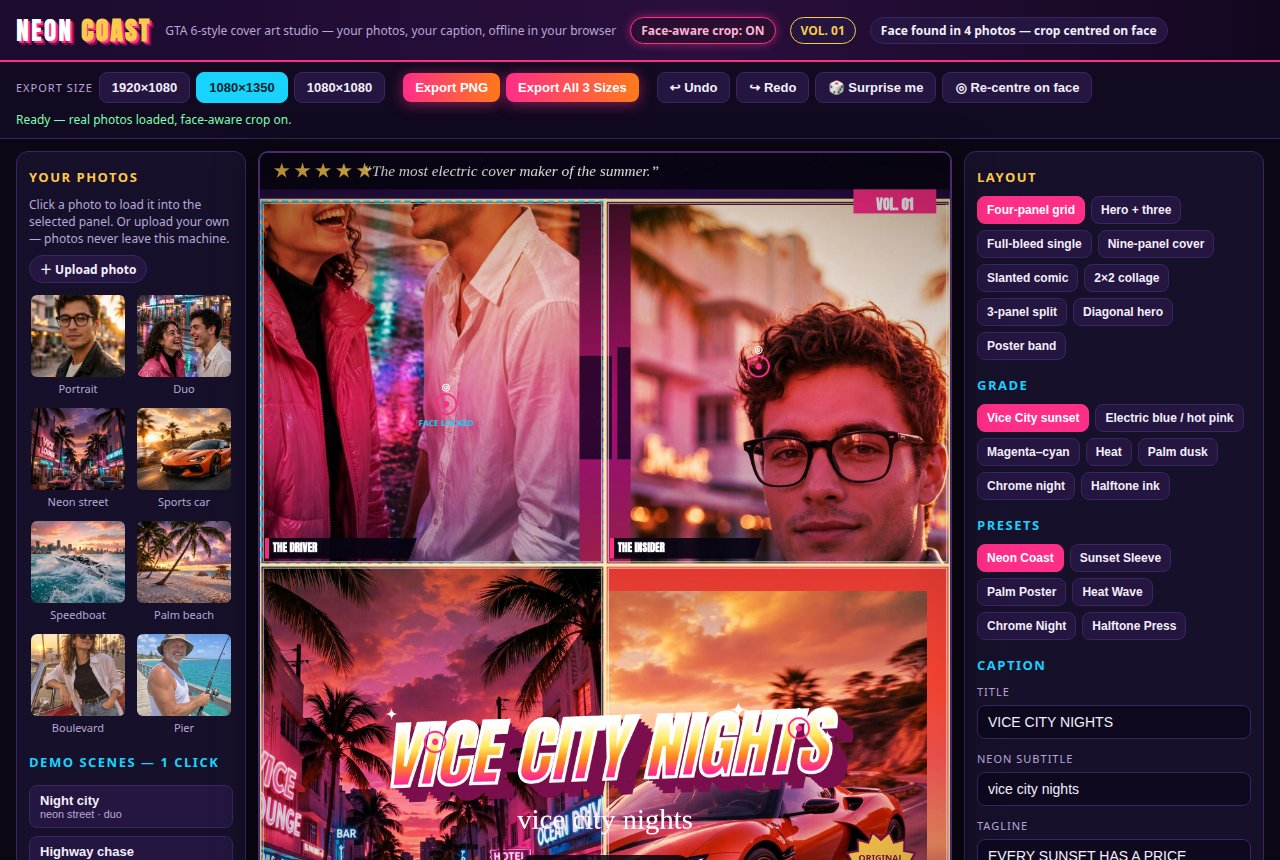
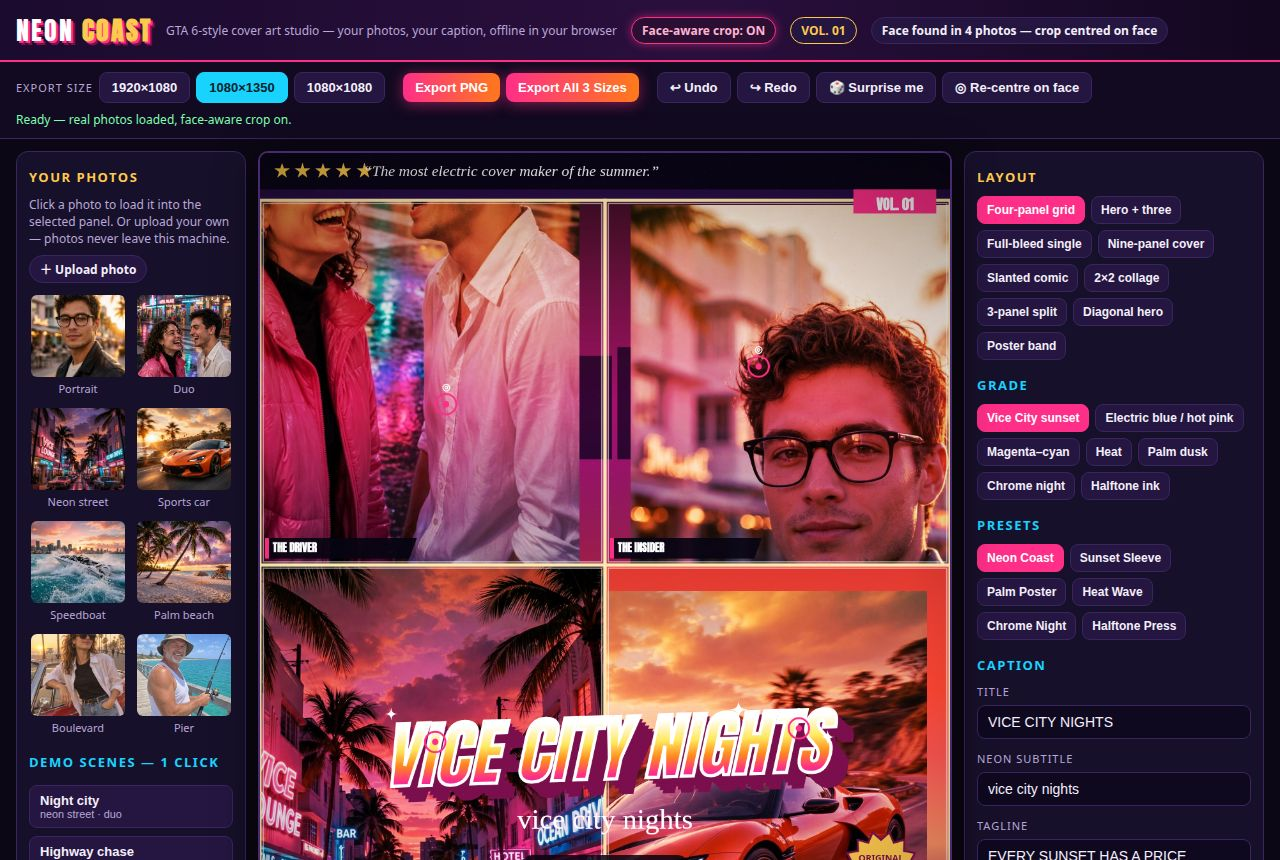
Round 5 fix: selection outline never leaks into clean/shot renders
- renderTo: dashed cyan selection outline now gated on !clean AND
  explicit user panel pick (selTouched); clean/export renders never draw it
- boot: shot mode deselects (selected=-1); fresh loads show no outline
  until the user clicks a panel or the panel dropdown
- FACE LOCKED label follows the same gate; pink face anchor markers
  still draw in the editor and in shot 2
- re-shot 1-4 with headless Chromium; verified visually clean

diff --git a/app/app.js b/app/app.js
@@ -77,7 +77,7 @@ const state = {
   tag: 'EVERY SUNSET HAS A PRICE',
   quote: '“The most electric cover maker of the summer.”',
   titleSize: 100, titleY: 66, grain: true, vignette: true, seal: true,
-  faceOn: true, selected: 0, exportSize: '1080x1350',
+  faceOn: true, selected: 0, selTouched: false, exportSize: '1080x1350',
   panels: [],
 };
 let undoStack = [], redoStack = [];
@@ -314,7 +314,9 @@ function renderTo(g, W, H, preview) {
     g.fillStyle = '#fff'; g.font = `bold ${Math.round(rh * .52)}px Anton, sans-serif`; g.textAlign = 'left'; g.textBaseline = 'middle';
     g.fillText(r.panel.role || 'THE DRIVER', rx + 12, ry + rh / 2 + 1);
     g.restore();
-    if (preview && i === state.selected) { g.save(); g.strokeStyle = '#19d3ff'; g.lineWidth = 3; g.setLineDash([10, 6]); g.strokeRect(r.x + 2, r.y + 2, r.w - 4, r.h - 4); g.restore(); }
+    /* selection outline: editor-only, and only after the user explicitly
+       picks a panel — never on a fresh load / screenshot, never in clean/export renders */
+    if (preview && i === state.selected && state.selTouched && !document.body.classList.contains('clean')) { g.save(); g.strokeStyle = '#19d3ff'; g.lineWidth = 3; g.setLineDash([10, 6]); g.strokeRect(r.x + 2, r.y + 2, r.w - 4, r.h - 4); g.restore(); }
   });
   /* press-quote bar on top */
   const qh = H * .042;
@@ -408,7 +410,7 @@ function drawAnchorMarkers() {
     ctx.fillStyle = '#ff2e88'; ctx.beginPath(); ctx.arc(mx, my, 5, 0, 7); ctx.fill();
     ctx.fillStyle = '#fff'; ctx.font = 'bold 15px system-ui, sans-serif'; ctx.textAlign = 'center'; ctx.textBaseline = 'middle';
     ctx.fillText('◎', mx, my - 26);
-    if (i === state.selected) { ctx.fillStyle = '#19d3ff'; ctx.font = 'bold 13px system-ui, sans-serif'; ctx.fillText(p.faceFound ? 'FACE LOCKED' : 'NO FACE — CENTRE', mx, my + 30); }
+    if (i === state.selected && state.selTouched) { ctx.fillStyle = '#19d3ff'; ctx.font = 'bold 13px system-ui, sans-serif'; ctx.fillText(p.faceFound ? 'FACE LOCKED' : 'NO FACE — CENTRE', mx, my + 30); }
   });
   ctx.restore();
 }
@@ -549,7 +551,7 @@ function wire() {
     render();
   };
   $('recentreBtn').onclick = recentre; $('faceBtn').onclick = recentre;
-  $('panelSel').onchange = e => { state.selected = +e.target.value; syncPanelBar(); render(); };
+  $('panelSel').onchange = e => { state.selected = +e.target.value; state.selTouched = true; syncPanelBar(); render(); };
   $('roleSel').onchange = e => { pushUndo(); state.panels[state.selected].role = e.target.value; render(); };
   $('zoom').oninput = e => { state.panels[state.selected].zoom = +e.target.value; render(); };
   $('zoom').onchange = () => pushUndo();
@@ -608,9 +610,9 @@ function wire() {
       const r = rects[i], p = r.panel;
       if (!p || !p.img) continue;
       const ap = anchorPos(r, p);
-      if (Math.hypot(pt.x - ap.x, pt.y - ap.y) < 34) { state.selected = i; drag = { kind: 'anchor', i, x: pt.x, y: pt.y }; canvas.setPointerCapture(e.pointerId); syncPanelBar(); render(); return; }
+      if (Math.hypot(pt.x - ap.x, pt.y - ap.y) < 34) { state.selected = i; state.selTouched = true; drag = { kind: 'anchor', i, x: pt.x, y: pt.y }; canvas.setPointerCapture(e.pointerId); syncPanelBar(); render(); return; }
       if (pt.x >= r.x && pt.x <= r.x + r.w && pt.y >= r.y && pt.y <= r.y + r.h) {
-        state.selected = i; drag = { kind: 'pan', i, x: pt.x, y: pt.y, ox: p.ox || 0, oy: p.oy || 0 };
+        state.selected = i; state.selTouched = true; drag = { kind: 'pan', i, x: pt.x, y: pt.y, ox: p.ox || 0, oy: p.oy || 0 };
         canvas.setPointerCapture(e.pointerId); syncPanelBar(); render(); return;
       }
     }
@@ -647,6 +649,9 @@ async function boot() {
   if (q.get('shot') === 'facecrop') { state.selected = 0; state.layout = 'heroThree'; }
   if (q.get('shot') === 'export') { state.layout = 'comic'; state.grade = 'sunset'; }
   if (q.get('shot') === 'variant') { state.layout = 'nineGrid'; state.grade = 'chromenight'; state.title = 'SKYLINE'; state.sub = 'skyline'; }
+  /* shot mode: deselect — no selection outline on any panel in screenshots
+     (face anchor markers still draw in shot 2 via drawAnchorMarkers) */
+  if (q.get('shot')) state.selected = -1;
   const scene = q.get('scene');
   const photos = scene ? (SCENES.find(s => s.label.toLowerCase().replace(/\s/g, '') === scene) || {}).photos
     : (q.get('shot') === 'export' ? [2, 0, 5] : null);
